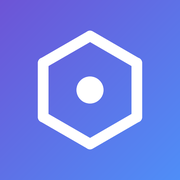
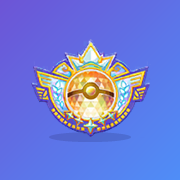
feat: PWA 서비스 워커 — 오프라인에서도 앱이 열리게 + 챔피언 마크 앱 아이콘 (6.5 P1) (#393)
## 서비스 워커
- 직접 작성(새 의존성 없음). 빌드 플러그인(vite.config.ts의 swPlugin)이 scripts/sw.template.js에 프리캐시 목록(번들 파일 + public 아이콘·매니페스트·랭크 이미지, 약 3.5MB)과 빌드 ID를 채워 dist/sw.js를 낸다
- HTML은 network-first(3초 후 캐시), 해시 자산은 프리캐시 cache-first(전 세대에서 찾음), 스프라이트·Google Fonts는 stale-while-revalidate. Firebase·Google API·인증 헬퍼·비-GET·Range 요청은 가로채지 않는다
- 갱신: skipWaiting + clients.claim, 프리캐시는 현재 + 직전 2세대만 유지(열린 옛 탭의 지연 청크 요청 대비)
- 설치 뒤 페이지가 한가할 때 스프라이트 578개(2.1MB)를 12개씩 백그라운드로 미리 받아 오프라인 도감·파티 이미지가 보이게 하고, 진행을 푸터에 표시한다
- 서버가 Vary: Origin을 붙이면 설치 때 받은 응답과 crossorigin 스크립트·CSS 요청이 Cache.match에서 어긋나 진짜 오프라인에서 앱이 안 그려지던 문제를 ignoreVary로 고침

## 등록·끄기
- 빌드 결과에서만 등록(개발 서버는 등록하지 않고 남은 등록을 해제). 푸터에 오프라인 캐시 상태(사용 가능·준비 중·꺼짐 · 켜기·실패)를 표시한다
- 끄는 방법: 빌드 환경변수 VITE_PWA=off(캐시를 지우고 스스로 해제하는 자기 파괴 서비스 워커를 낸다), 주소 ?sw=off(이 기기에서 끄고 해제, ?sw=on으로 복구), DevTools Unregister

## 앱 아이콘
- 챔피언 마크(public/rank/champion.png)를 앱 그라데이션 배경 중앙에 둔 아이콘으로 교체(icon-192·icon-512·apple-touch-icon, maskable 안전 영역 안)

Changed region(s): [[0.1667, 0.1667, 0.8333, 0.8333]]

diff --git a/scripts/sw.template.js b/scripts/sw.template.js
@@ -1,0 +1,111 @@
+/* 서비스 워커 템플릿(6.5 P1) — 빌드 때 vite.config.ts의 swPlugin이 아래 두 상수의 자리표시자를 빌드 ID·프리캐시 목록으로 바꿔 dist/sw.js로 낸다(자리표시자 문구는 이 주석에 쓰지 않는다 — 첫 번째 일치를 치환한다).
+   설계: docs/00_기획문서/02_backlog/06_ver.6.0/6.5-P1-PWA-설계.md. 이 파일은 src 밖이라 tsc·린트 대상이 아니다. */
+const BUILD_ID = __BUILD_ID__;
+const PRECACHE = __PRECACHE__; // ["/", "/assets/index-xxxx.js", ...] — 인코딩된 경로
+const SPRITE_LIST = __SPRITE_LIST__; // /sprites/** 전체 — 설치 뒤 백그라운드로 미리 받는다(오프라인 도감·파티 이미지)
+const PRE = `precache-${BUILD_ID}`;
+const SPRITES = "sprites-v1";
+const FONTS = "fonts-v1";
+// 서버가 Vary: Origin을 붙이면(vite preview 등) 설치 때 받아 둔 응답(Origin 없음)과 crossorigin 스크립트·CSS 요청(Origin 있음)이 서로 다른 요청으로 취급돼
+// 캐시를 못 찾고 오프라인에서 앱이 그려지지 않는다 — 항상 Vary를 무시하고 찾는다
+const MATCH = { ignoreVary: true };
+
+// 설치: 프리캐시를 전부 받는다. 하나라도 실패하면 설치가 실패해 기존 서비스 워커가 그대로 남는다
+self.addEventListener("install", (e) => {
+  e.waitUntil(
+    caches
+      .open(PRE)
+      .then((c) => c.addAll(PRECACHE.map((p) => new Request(p, { cache: "reload" }))))
+      .then(() => self.skipWaiting()),
+  );
+});
+
+// 활성화: 프리캐시는 "현재 + 직전" 2세대만 남긴다(열려 있던 옛 탭이 뒤늦게 요청하는 옛 해시 청크를 직전 세대가 받아 준다)
+self.addEventListener("activate", (e) => {
+  e.waitUntil(
+    (async () => {
+      const gens = (await caches.keys()).filter((k) => k.startsWith("precache-")).sort().reverse();
+      await Promise.all(gens.slice(2).map((k) => caches.delete(k)));
+      await self.clients.claim();
+    })(),
+  );
+});
+
+// 페이지가 한가할 때 보내는 요청 — 스프라이트를 12개씩 받아 쌓고, 진행을 열린 탭에 알린다(이미 받은 것은 건너뛰므로 다시 보내도 싸다)
+let warming = null;
+self.addEventListener("message", (e) => {
+  if (e.data && e.data.type === "warm-sprites") e.waitUntil((warming ||= warmSprites().finally(() => (warming = null))));
+});
+
+async function notifyWarm(done) {
+  const all = await self.clients.matchAll();
+  all.forEach((c) => c.postMessage({ type: "warm-progress", done, total: SPRITE_LIST.length }));
+}
+
+async function warmSprites() {
+  const cache = await caches.open(SPRITES);
+  const todo = [];
+  for (const p of SPRITE_LIST) if (!(await cache.match(p))) todo.push(p);
+  let done = SPRITE_LIST.length - todo.length;
+  await notifyWarm(done);
+  for (let i = 0; i < todo.length; i += 12) {
+    await Promise.all(
+      todo.slice(i, i + 12).map(async (p) => {
+        try {
+          const res = await fetch(p);
+          if (res.ok) await cache.put(p, res);
+        } catch {
+          /* 실패한 것은 쓸 때 다시 받는다(런타임 캐시) */
+        }
+      }),
+    );
+    done = Math.min(SPRITE_LIST.length, done + 12);
+    await notifyWarm(done);
+  }
+  await notifyWarm(SPRITE_LIST.length);
+}
+
+self.addEventListener("fetch", (e) => {
+  const req = e.request;
+  if (req.method !== "GET" || req.headers.has("range")) return; // 가로채지 않는다
+  const url = new URL(req.url);
+  if (url.origin === location.origin) {
+    if (url.pathname.startsWith("/__/")) return; // Firebase 인증 헬퍼(같은 도메인으로 쓸 때)
+    if (req.mode === "navigate") return e.respondWith(shell(req));
+    if (url.pathname.startsWith("/sprites/")) return e.respondWith(swr(SPRITES, req, e));
+    // 해시 자산은 모든 세대의 캐시에서 찾고, 없으면 네트워크 — 프리캐시 목록에 없는 옛 해시 요청도 직전 세대가 받는다
+    if (url.pathname.startsWith("/assets/") || PRECACHE.includes(url.pathname)) return e.respondWith(cacheFirst(req));
+    return;
+  }
+  if (url.hostname === "fonts.googleapis.com" || url.hostname === "fonts.gstatic.com") return e.respondWith(swr(FONTS, req, e));
+  // 그 밖의 외부 요청(Firebase·Google API 등)은 가로채지 않는다
+});
+
+// HTML: 네트워크 우선(3초 안에 못 받으면 캐시). 온라인이면 항상 최신 HTML → 최신 해시 자산
+async function shell(req) {
+  try {
+    const res = await Promise.race([fetch(req), new Promise((_, reject) => setTimeout(reject, 3000))]);
+    if (res.ok) caches.open(PRE).then((c) => c.put("/", res.clone()));
+    return res;
+  } catch {
+    return (await caches.match("/", MATCH)) || fetch(req);
+  }
+}
+
+async function cacheFirst(req) {
+  return (await caches.match(req, MATCH)) || fetch(req);
+}
+
+// 캐시가 있으면 바로 주고, 뒤에서 새로 받아 갱신한다(스프라이트·폰트: 파일명이 고정이라 바뀌어도 갱신돼야 한다)
+async function swr(name, req, e) {
+  const cache = await caches.open(name);
+  const hit = await cache.match(req, MATCH);
+  const net = fetch(req)
+    .then((res) => {
+      if (res.ok || res.type === "opaque") cache.put(req, res.clone());
+      return res;
+    })
+    .catch(() => undefined);
+  e.waitUntil(net);
+  return hit || (await net) || Response.error();
+}

diff --git a/vite.config.ts b/vite.config.ts
@@ -1,11 +1,55 @@
-import { defineConfig } from 'vite'
+import { defineConfig, loadEnv, type Plugin } from 'vite'
 import react from '@vitejs/plugin-react'
 import path from 'node:path'
 import { fileURLToPath } from 'node:url'
+import { createHash } from 'node:crypto'
+import fs from 'node:fs'
+
+const root = path.dirname(fileURLToPath(import.meta.url))
+
+// 6.5 P1 — 서비스 워커(dist/sw.js)를 빌드 때 만든다. 설계: docs/00_기획문서/02_backlog/06_ver.6.0/6.5-P1-PWA-설계.md
+// 프리캐시 목록 = 번들 파일(해시 포함, index.html은 '/') + public의 아이콘·매니페스트·랭크 이미지. 스프라이트(public/sprites)는 설치를 지연시키지 않도록 프리캐시에서 빼고,
+// 목록만 서비스 워커에 넘겨 설치 뒤 백그라운드로 미리 받는다(페이지가 idle일 때 메시지로 시작).
+// off이면(VITE_PWA=off) 목록 대신 "캐시를 지우고 스스로 해제하는" 자기 파괴 서비스 워커를 내서, 재배포 한 번으로 모든 사용자에게서 제거한다.
+function swPlugin(off: boolean): Plugin {
+  const publicFiles = (dir = '', skipSprites = true): string[] =>
+    fs.readdirSync(path.join(root, 'public', dir), { withFileTypes: true }).flatMap((d) => {
+      const rel = path.posix.join(dir, d.name)
+      if (d.isDirectory()) return skipSprites && rel === 'sprites' ? [] : publicFiles(rel, skipSprites)
+      return [rel]
+    })
+  return {
+    name: 'poke-sw',
+    apply: 'build',
+    generateBundle(_, bundle) {
+      const files = [...Object.keys(bundle).filter((f) => f !== 'index.html' && !f.endsWith('.map')), ...publicFiles()]
+      const precache = ['/', ...files.map((f) => encodeURI('/' + f))]
+      const sprites = publicFiles('sprites', false).map((f) => encodeURI('/' + f))
+      const hash = createHash('sha1').update(files.sort().join('|')).digest('hex').slice(0, 8)
+      const buildId = `${Date.now().toString(36)}-${hash}`
+      // off: 캐시를 지우고 스스로 해제한 뒤 열린 탭을 새로고침하는 자기 파괴 서비스 워커
+      const kill = [
+        "self.addEventListener('install', () => self.skipWaiting());",
+        "self.addEventListener('activate', (e) => e.waitUntil((async () => {",
+        "  await Promise.all((await caches.keys()).map((k) => caches.delete(k)));",
+        "  await self.registration.unregister();",
+        "  (await self.clients.matchAll({ type: 'window' })).forEach((c) => c.navigate(c.url));",
+        "})()));",
+      ].join('\n')
+      const source = off
+        ? kill
+        : fs.readFileSync(path.join(root, 'scripts/sw.template.js'), 'utf8')
+            .replace('__BUILD_ID__', JSON.stringify(buildId))
+            .replace('__PRECACHE__', JSON.stringify(precache))
+            .replace('__SPRITE_LIST__', JSON.stringify(sprites))
+      this.emitFile({ type: 'asset', fileName: 'sw.js', source })
+    },
+  }
+}
 
 // https://vite.dev/config/
-export default defineConfig({
-  plugins: [react()],
+export default defineConfig(({ mode }) => ({
+  plugins: [react(), swPlugin(loadEnv(mode, root, 'VITE_').VITE_PWA === 'off')],
   resolve: {
     // ver.1.5 §8: src/lib/battle/ 등 하위 폴더가 생기면서 "../../" 체인을 막기 위해 도입.
     alias: {
@@ -21,4 +65,4 @@ export default defineConfig({
     port: 5174,
     strictPort: true,
   },
-})
+}))

diff --git a/src/lib/registerSw.ts b/src/lib/registerSw.ts
@@ -1,0 +1,73 @@
+/**
+ * 서비스 워커 등록(6.5 P1) — 설계: docs/00_기획문서/02_backlog/06_ver.6.0/6.5-P1-PWA-설계.md
+ * - 빌드 결과(PROD)에서만 등록한다. 개발 서버(HMR)에서는 등록하지 않고, 남아 있는 등록이 있으면 해제한다.
+ * - 끄는 방법: ① 빌드 환경변수 VITE_PWA=off(재배포하면 자기 파괴 서비스 워커가 나간다) ② 주소에 ?sw=off(이 기기에서 끄고 해제, ?sw=on으로 다시 켠다)
+ */
+const FLAG = "sw-off";
+
+const flag = {
+  get: () => {
+    try {
+      return localStorage.getItem(FLAG) === "1";
+    } catch {
+      return false;
+    }
+  },
+  set: (on: boolean) => {
+    try {
+      if (on) localStorage.setItem(FLAG, "1");
+      else localStorage.removeItem(FLAG);
+    } catch {
+      /* 저장소를 못 쓰면 이번 방문에만 적용된다 */
+    }
+  },
+};
+
+/** 서비스 워커를 쓰지 않는 이유(쓰는 중이면 null). 푸터가 이 값으로 상태를 보여 준다 — flag는 ?sw=off로 이 기기에서 꺼 둔 경우 */
+export function swDisabledReason(): "unsupported" | "dev" | "build" | "flag" | null {
+  if (!("serviceWorker" in navigator)) return "unsupported";
+  if (!import.meta.env.PROD) return "dev";
+  if (import.meta.env.VITE_PWA === "off") return "build";
+  return flag.get() ? "flag" : null;
+}
+
+/** 등록을 모두 해제하고 캐시를 비운다(등록이 이미 없어도 남은 캐시는 지운다). 이 페이지를 서비스 워커가 맡고 있었으면 한 번 새로고침해 서비스 워커 없는 상태로 다시 연다 */
+async function unregisterAll() {
+  const regs = await navigator.serviceWorker.getRegistrations();
+  const controlled = !!navigator.serviceWorker.controller;
+  await Promise.all(regs.map((r) => r.unregister()));
+  // 우리가 만든 캐시만 지운다(precache-*·sprites-v1·fonts-v1)
+  await Promise.all((await caches.keys()).filter((k) => /^(precache-|sprites-v1$|fonts-v1$)/.test(k)).map((k) => caches.delete(k)));
+  if (controlled) location.reload();
+}
+
+export function registerSw() {
+  if (!("serviceWorker" in navigator)) return;
+  const params = new URLSearchParams(location.search);
+  const sw = params.get("sw");
+  if (sw === "off" || sw === "on") {
+    flag.set(sw === "off");
+    params.delete("sw");
+    const query = params.toString();
+    history.replaceState(null, "", `${location.pathname}${query ? `?${query}` : ""}${location.hash}`);
+  }
+  if (swDisabledReason()) {
+    void unregisterAll();
+    return;
+  }
+  window.addEventListener("load", () => {
+    navigator.serviceWorker
+      .register("/sw.js")
+      .then(() => navigator.serviceWorker.ready)
+      .then((reg) => {
+        // 오프라인에서도 이미지가 보이도록 스프라이트를 백그라운드로 미리 받게 한다(온라인이고 한가할 때)
+        if (!navigator.onLine) return;
+        const ask = () => reg.active?.postMessage({ type: "warm-sprites" });
+        if ("requestIdleCallback" in window) requestIdleCallback(ask);
+        else setTimeout(ask, 2000);
+      })
+      .catch(() => {
+        /* 등록에 실패해도 앱은 서비스 워커 없이 그대로 동작한다 */
+      });
+  });
+}

diff --git a/src/hooks/useSwStatus.ts b/src/hooks/useSwStatus.ts
@@ -1,0 +1,33 @@
+import { useEffect, useState } from "react";
+import { swDisabledReason } from "../lib/registerSw";
+
+/** 오프라인 캐시(서비스 워커) 상태 — 푸터에 보여 준다(6.5 P1). hidden은 개발 서버·미지원 브라우저라 표시하지 않는다 */
+export type SwStatus = "hidden" | "off-flag" | "off-build" | "installing" | "ready" | "failed";
+
+/** 스프라이트 미리 받기 진행(서비스 워커가 알려 준다). 아직 소식이 없으면 null */
+export type SwWarm = { done: number; total: number } | null;
+
+export function useSwStatus(): { status: SwStatus; warm: SwWarm } {
+  const reason = swDisabledReason();
+  const [ready, setReady] = useState(false);
+  const [failed, setFailed] = useState(false);
+  const [warm, setWarm] = useState<SwWarm>(null);
+  useEffect(() => {
+    if (reason) return;
+    let alive = true;
+    const onMessage = (e: MessageEvent) => {
+      if (e.data?.type === "warm-progress") setWarm({ done: e.data.done, total: e.data.total });
+    };
+    navigator.serviceWorker.addEventListener("message", onMessage);
+    void navigator.serviceWorker.ready.then(() => alive && setReady(true));
+    // 등록이 없거나 설치가 계속 실패하면 ready가 영영 오지 않는다 — 15초 뒤 실패로 알린다
+    const id = setTimeout(() => alive && setFailed(true), 15000);
+    return () => {
+      alive = false;
+      clearTimeout(id);
+      navigator.serviceWorker.removeEventListener("message", onMessage);
+    };
+  }, [reason]);
+  const status: SwStatus = reason === "unsupported" || reason === "dev" ? "hidden" : reason === "flag" ? "off-flag" : reason === "build" ? "off-build" : ready ? "ready" : failed ? "failed" : "installing";
+  return { status, warm };
+}

diff --git a/src/components/Footer.tsx b/src/components/Footer.tsx
@@ -1,3 +1,4 @@
+import { useSwStatus } from "../hooks/useSwStatus";
 import "./Footer.css";
 
 /**
@@ -6,8 +7,22 @@ import "./Footer.css";
  * 않고 전 화면에 노출한다(백로그 §1-6).
  */
 export function Footer() {
+  const { status: sw, warm } = useSwStatus();
   return (
     <footer className="app-footer">
+      {sw !== "hidden" && (
+        <p className="app-footer-sw" role="status">
+          {sw === "ready" && `오프라인 사용 가능${warm && warm.done < warm.total ? ` · 이미지 준비 중 ${warm.done}/${warm.total}` : ""}`}
+          {sw === "installing" && "오프라인 준비 중…"}
+          {sw === "failed" && "오프라인 준비에 실패했어요"}
+          {sw === "off-build" && "오프라인 캐시 꺼짐"}
+          {sw === "off-flag" && (
+            <>
+              오프라인 캐시 꺼짐 · <a href="?sw=on">켜기</a>
+            </>
+          )}
+        </p>
+      )}
       <p className="app-footer-legal">
         Pokémon and Pokémon character names are trademarks of Nintendo. Pokémon content and
         materials are trademarks and copyrights of Nintendo or its licensors. All rights reserved.

diff --git a/src/main.tsx b/src/main.tsx
@@ -2,9 +2,13 @@ import { StrictMode } from 'react'
 import { createRoot } from 'react-dom/client'
 import './index.css'
 import App from './App.tsx'
+import { registerSw } from './lib/registerSw'
 
 // 저장 데이터(파티·프리셋)가 용량 부족으로 자동 삭제되지 않게 영구 저장을 요청한다(5.5 G1 B). 허용 여부는 브라우저가 정하고, 직접 지우는 것까지 막지는 못한다
 void navigator.storage?.persist?.()?.catch(() => {})
+
+// 서비스 워커(6.5 P1) — 빌드 결과에서만 등록한다
+registerSw()
 
 createRoot(document.getElementById('root')!).render(
   <StrictMode>

diff --git a/src/components/Footer.css b/src/components/Footer.css
@@ -6,6 +6,17 @@
   color: var(--text-muted);
 }
 
+/* 오프라인 캐시(서비스 워커) 상태 한 줄(6.5 P1) */
+.app-footer-sw {
+  margin: 0 auto 0.3rem;
+  font-size: var(--fs-xs);
+  opacity: 0.85;
+}
+
+.app-footer-sw a {
+  color: var(--violet);
+}
+
 .app-footer-legal {
   margin: 0 auto;
   max-width: 24rem;
